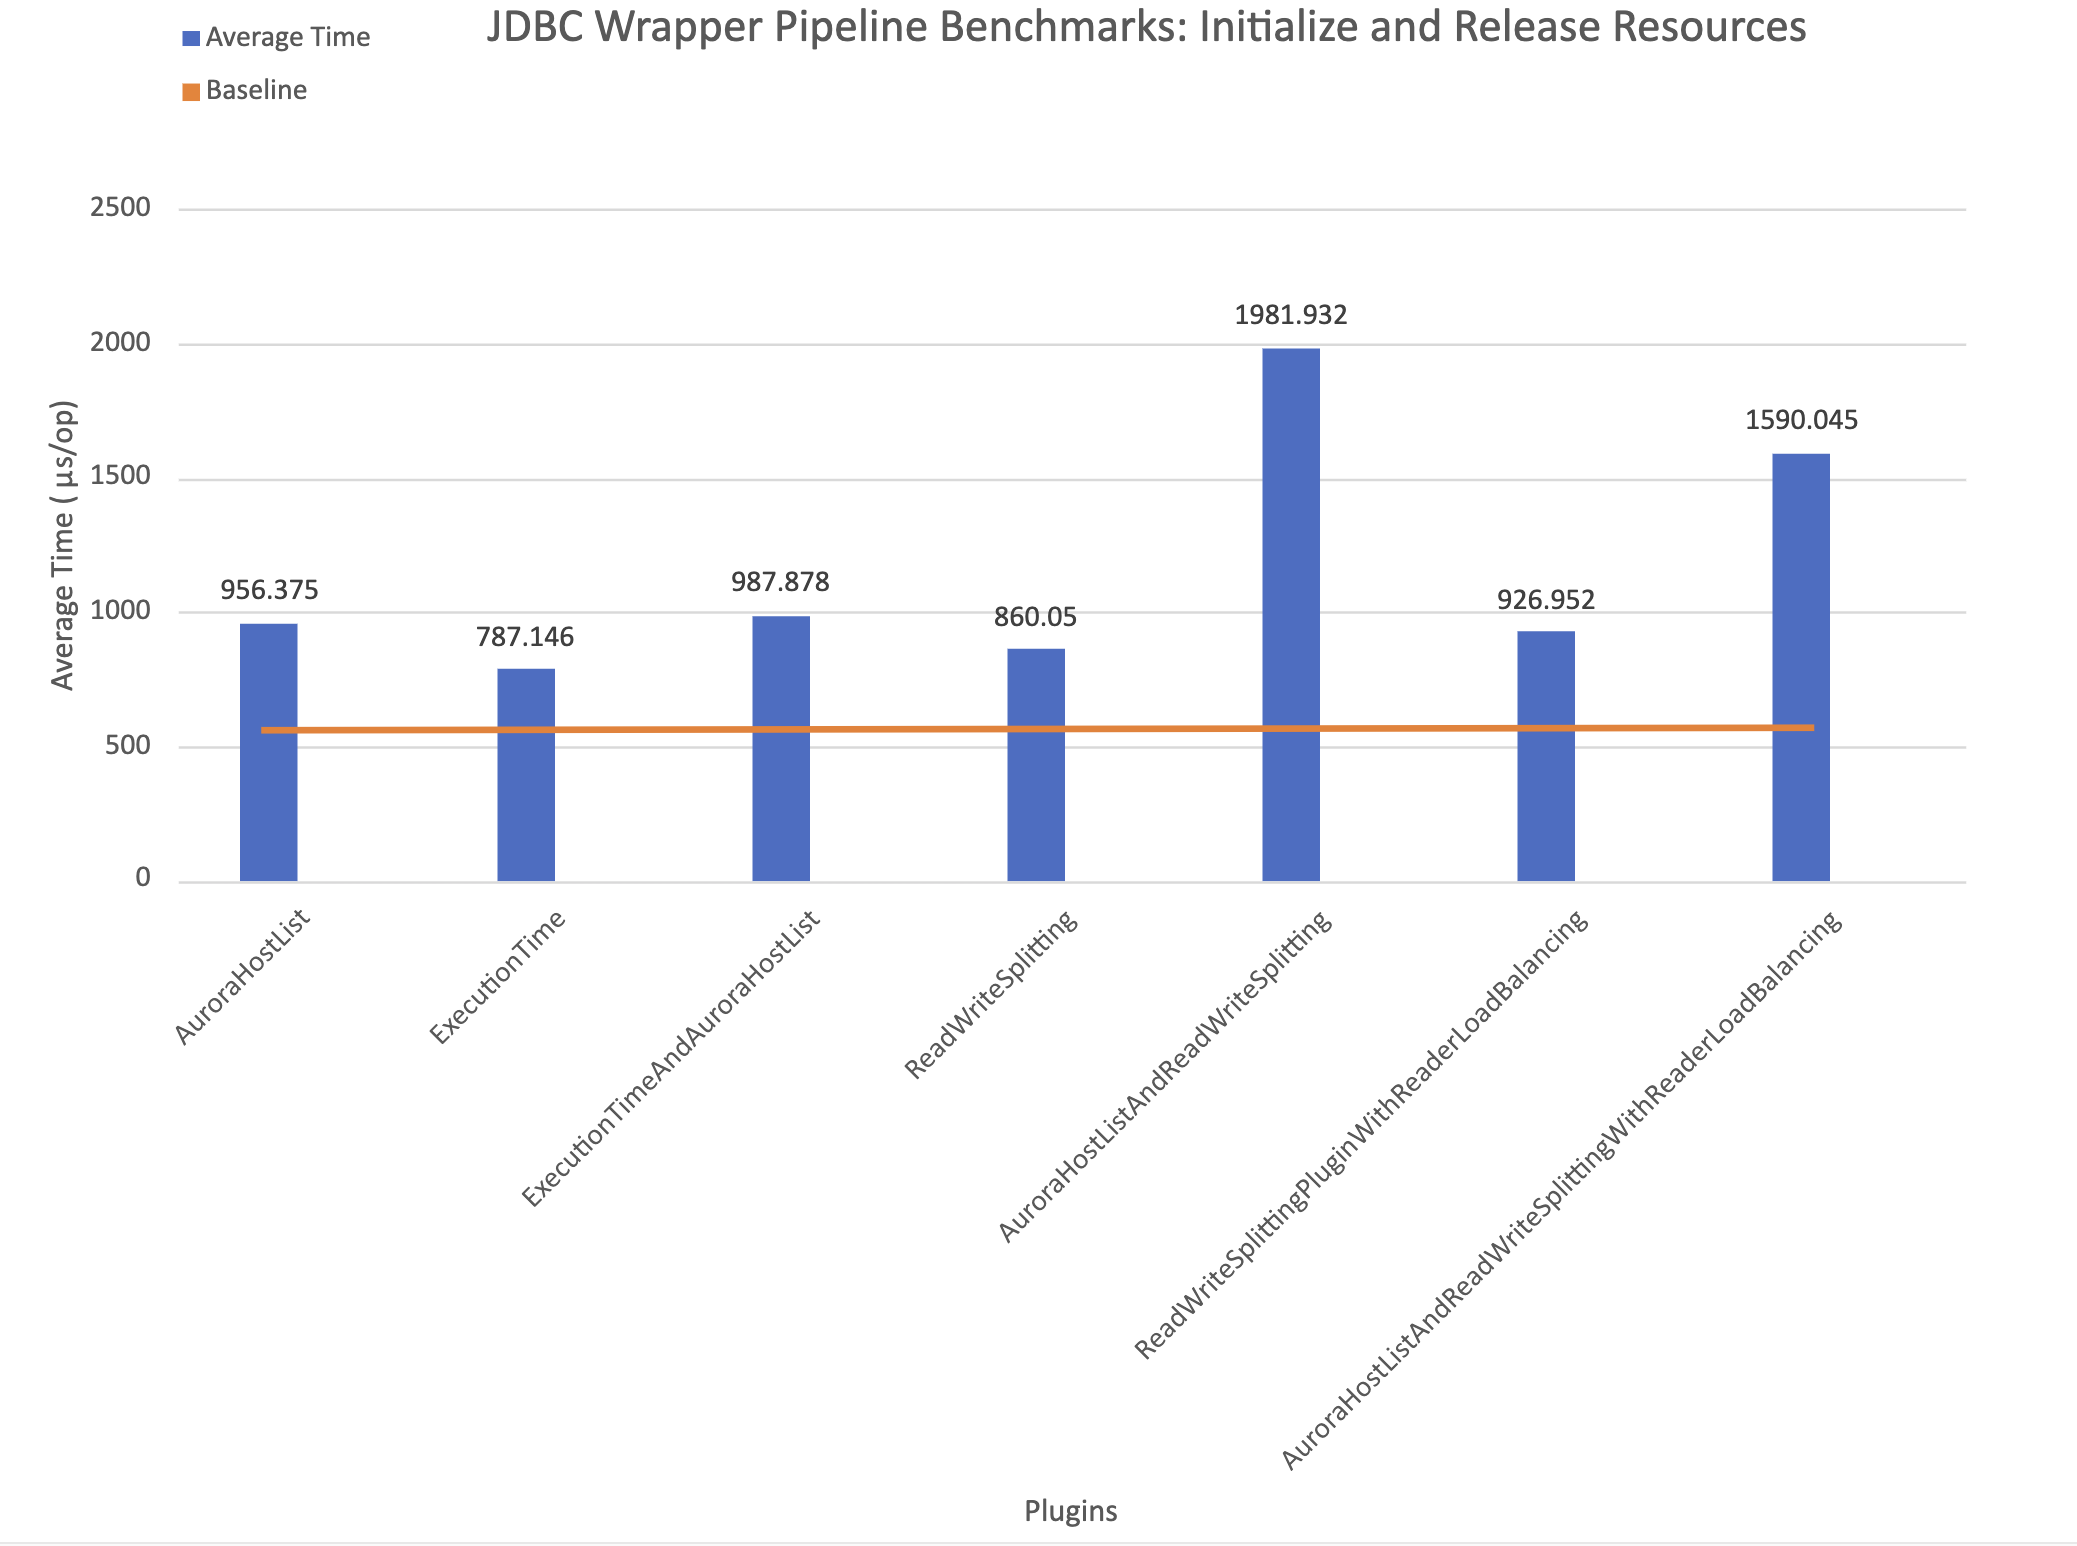
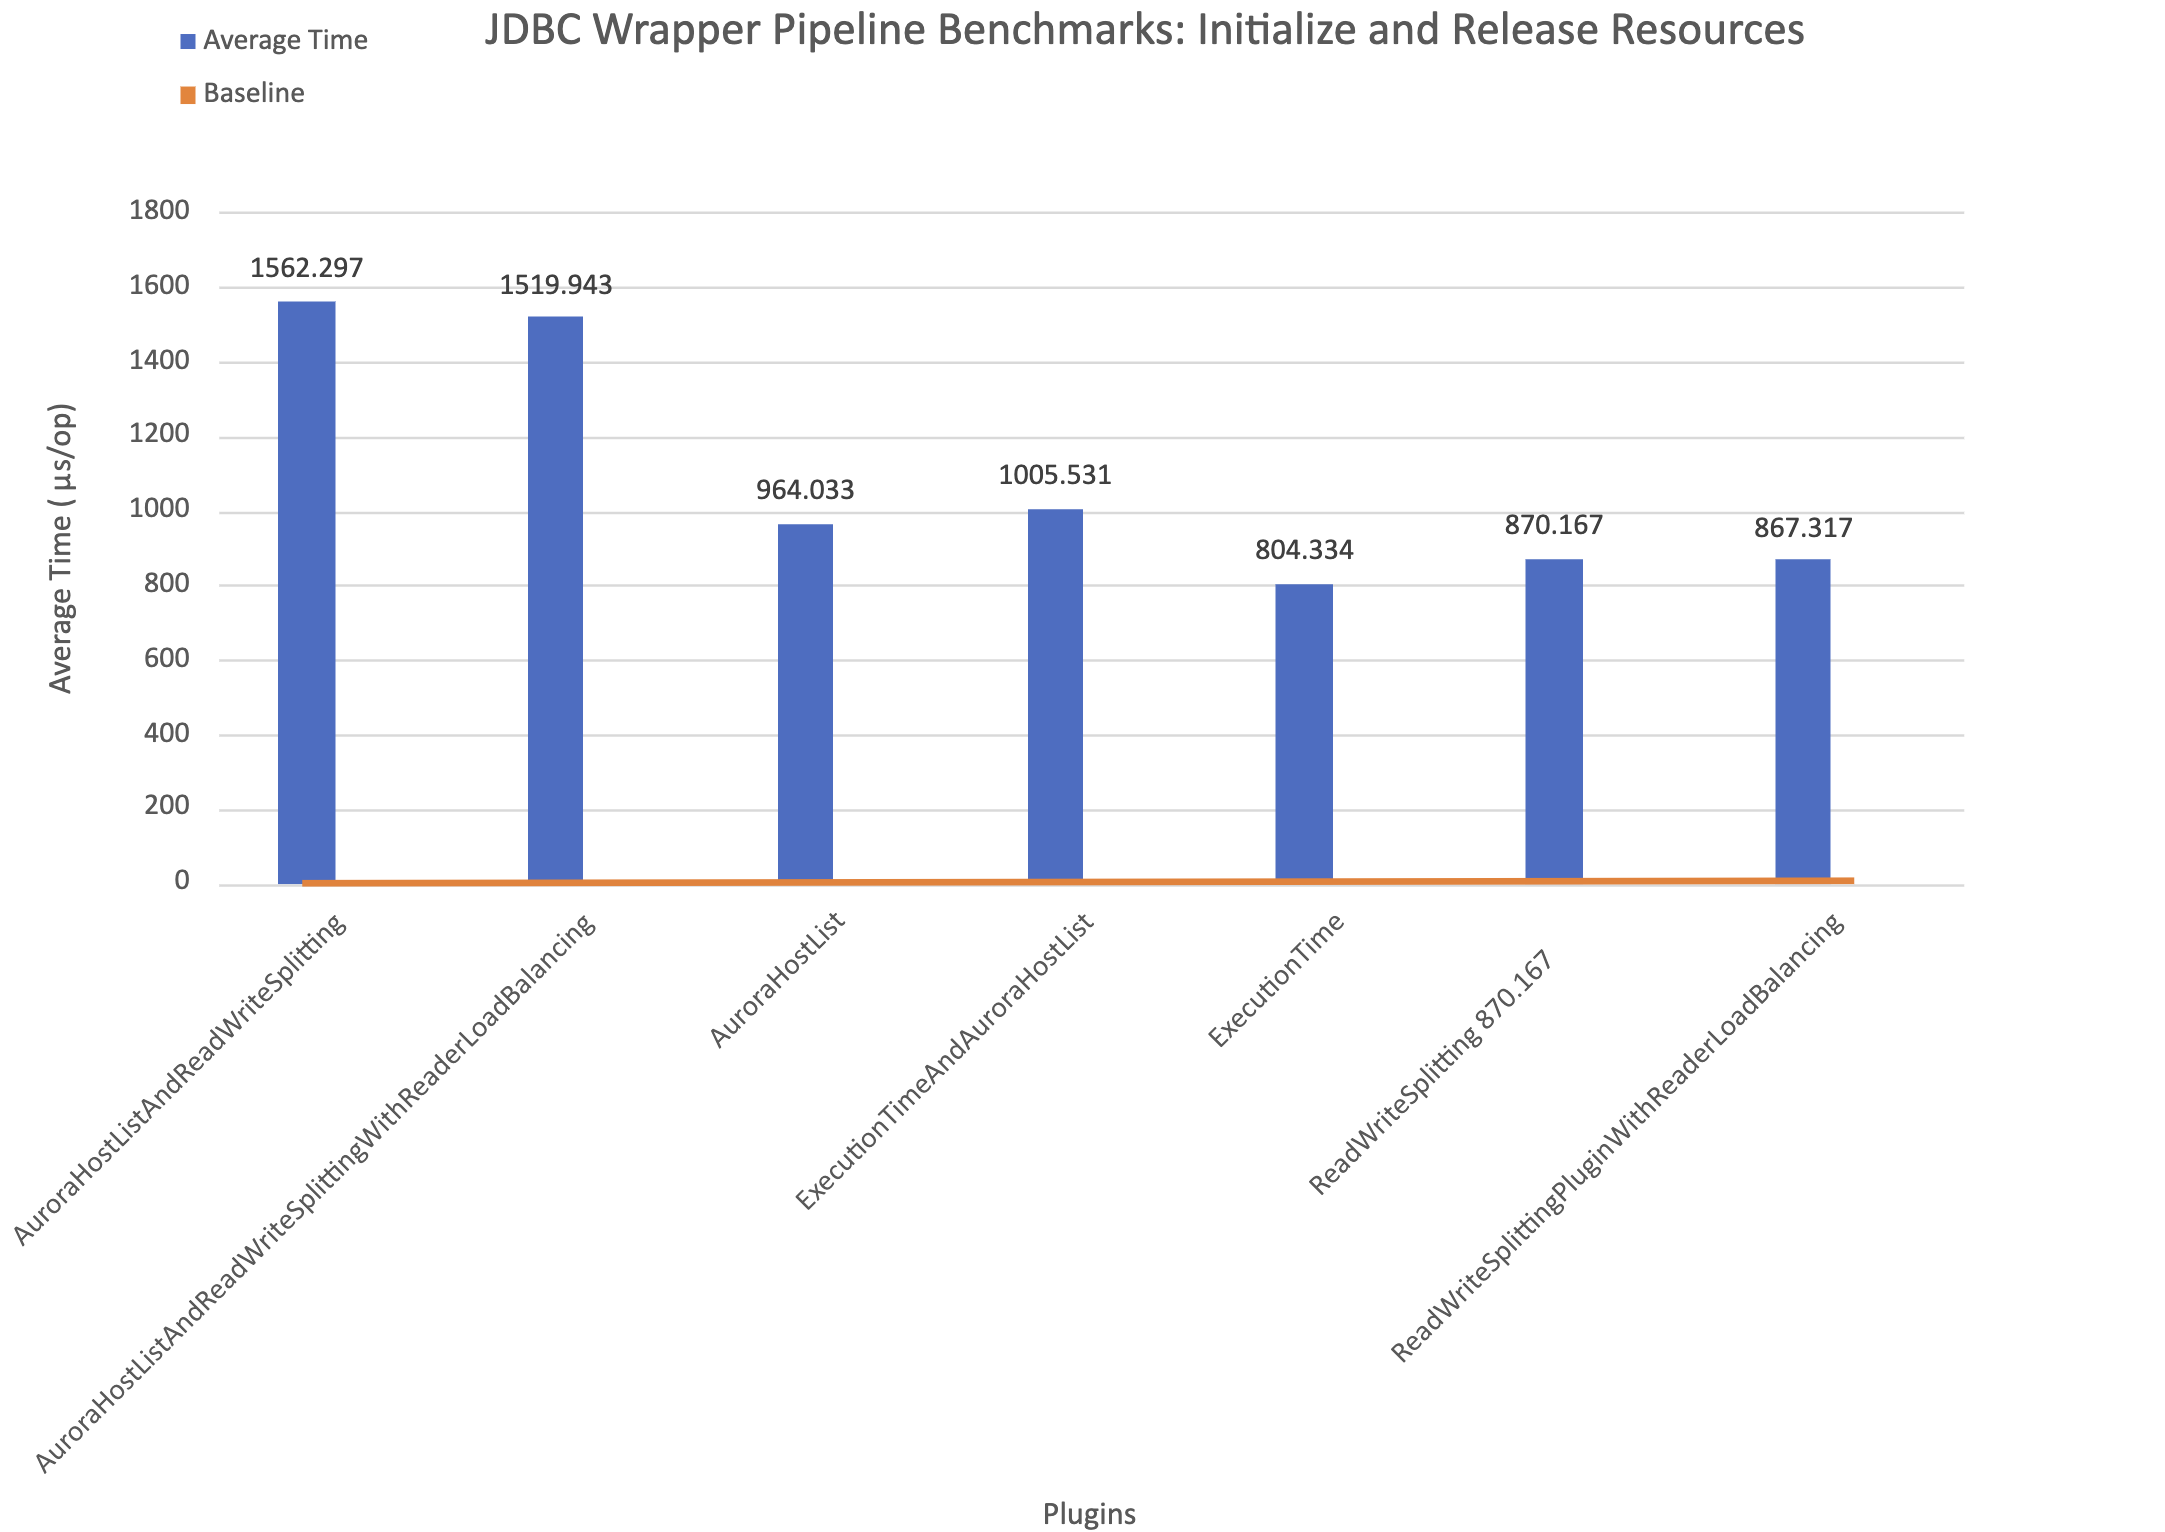
added updated plugin results after changes

diff --git a/docs/development-guide/EFMAndFailoverPluginPerformanceResults.md b/docs/development-guide/EFMAndFailoverPluginPerformanceResults.md
@@ -34,16 +34,16 @@
 
 | Benchmark                                                                          | Score    | Error   | Units |
 |------------------------------------------------------------------------------------|----------|---------|-------|
-| executeStatementBaseline                                                           | 890.541  | 103.673 | us/op |
-| executeStatementWithExecutionTimePlugin                                            | 1770.788 | 294.834 | us/op |
-| initAndReleaseBaseLine                                                             | 0.580    | 0.079   | us/op |
-| initAndReleaseWithAuroraHostListPlugin                                             | 956.375  | 146.997 | us/op |
-| initAndReleaseWithExecutionTimePlugin                                              | 787.146  | 152.519 | us/op |
-| initAndReleaseWithExecutionTimeAndAuroraHostListPlugins                            | 987.878  | 125.639 | us/op |
-| initAndReleaseWithAuroraHostListAndReadWriteSplittingPlugin                        | 1981.932 | 653.925 | us/op |
-| initAndReleaseWithAuroraHostListAndReadWriteSplittingPluginWithReaderLoadBalancing | 1590.045 | 243.160 | us/op |
-| initAndReleaseWithReadWriteSplittingPlugin                                         | 860.050  | 147.365 | us/op |
-| initAndReleaseWithReadWriteSplittingPluginWithReaderLoadBalancing                  | 926.952  | 152.613 | us/op |
+| executeStatementBaseline                                                           | 912.928  | 137.285 | us/op |
+| executeStatementWithExecutionTimePlugin                                            | 1739.314 | 286.132 | us/op |
+| initAndReleaseBaseLine                                                             | 1.132    | 1.123   | us/op |
+| initAndReleaseWithAuroraHostListAndReadWriteSplittingPlugin                        | 1562.297 | 245.078 | us/op |
+| initAndReleaseWithAuroraHostListAndReadWriteSplittingPluginWithReaderLoadBalancing | 1519.943 | 243.188 | us/op |
+| initAndReleaseWithAuroraHostListPlugin                                             | 964.033  | 149.767 | us/op |
+| initAndReleaseWithExecutionTimeAndAuroraHostListPlugins                            | 1005.531 | 165.567 | us/op |
+| initAndReleaseWithExecutionTimePlugin                                              | 804.334  | 150.357 | us/op |
+| initAndReleaseWithReadWriteSplittingPlugin                                         | 870.167  | 158.707 | us/op |
+| initAndReleaseWithReadWriteSplittingPluginWithReaderLoadBalancing                  | 867.317  | 149.344 | us/op |
 
 ## Performance Tests
 
